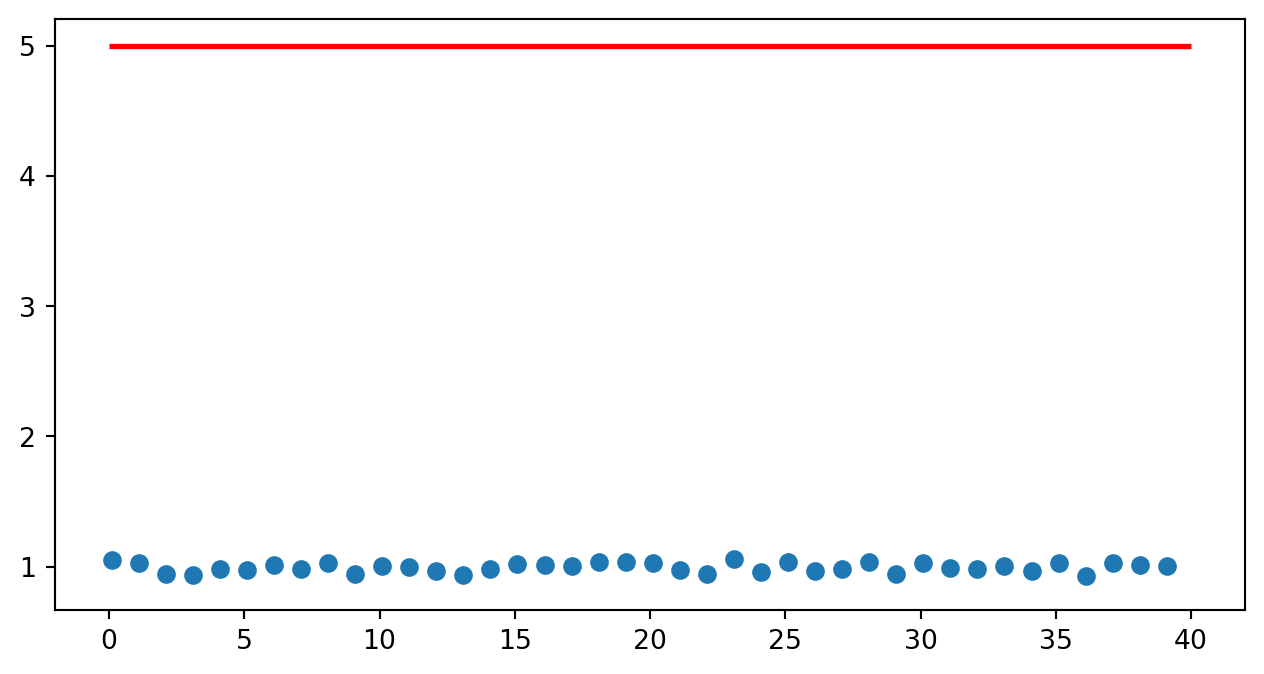
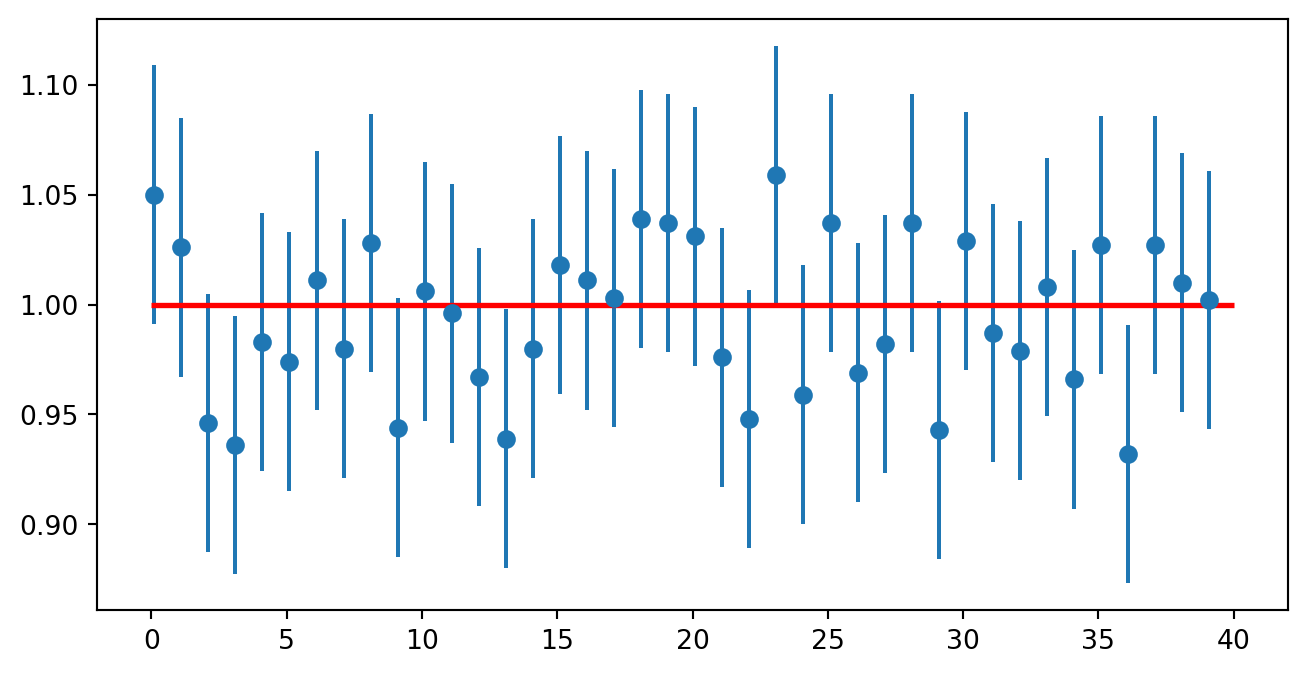
changes L2

diff --git a/lecture/l2/Lecture_2.html b/lecture/l2/Lecture_2.html
@@ -468,7 +468,7 @@
 <ul>
 <li><p><span class="math inline">\(f_X(x)\ge 0\ \forall x\)</span>,</p></li>
 <li><p><span class="math inline">\(\int\limits_\mathbb{R} f_X(x)dx=1\)</span>,</p></li>
-<li><p>For all <span class="math inline">\(a\le b\)</span>, it holds <span class="math display">\[P(a\le b)=\int\limits_{a}^b f_X(x)dx.\]</span></p></li>
+<li><p>For all <span class="math inline">\(a\le b\)</span>, it holds <span class="math display">\[P(a\le X \le b)=\int\limits_{a}^b f_X(x)dx.\]</span></p></li>
 </ul>
 <p>The function <span class="math inline">\(f_X\)</span> is called probability density function (pdf).</p>
 </section>
@@ -527,16 +527,16 @@ U\sim \mathcal{U}([0,1])\implies X:=F^{-1}(U)\sim F
 <span id="cb1-3"><a href="#cb1-3"></a>    X<span class="op">=</span>random.random()</span>
 <span id="cb1-4"><a href="#cb1-4"></a>    <span class="bu">print</span>(X)</span></code><button title="Copy to Clipboard" class="code-copy-button"><i class="bi"></i></button></pre></div>
 <div class="cell-output cell-output-stdout">
-<pre><code>0.8994960109708852
-0.9035462734850362
-0.9877420929341318
-0.5134246536937496
-0.4162733073592447
-0.8979716576181844
-0.0628017035556463
-0.7663710358514896
-0.2813777956759813
-0.6981711544492674</code></pre>
+<pre><code>0.9152949019822718
+0.08020395899785959
+0.6561996976012695
+0.7235724460815871
+0.06752088902122921
+0.491003309340016
+0.05857663489707554
+0.6492084549788051
+0.5484524803626224
+0.4961405538397724</code></pre>
 </div>
 </div>
 </div>
@@ -548,7 +548,7 @@ U\sim \mathcal{U}([0,1])\implies X:=F^{-1}(U)\sim F
 <div class="cell" data-slideshow="{&quot;slide_type&quot;:&quot;fragment&quot;}" data-execution_count="2">
 <div class="sourceCode cell-code" id="cb3"><pre class="sourceCode numberSource python number-lines code-with-copy"><code class="sourceCode python"><span id="cb3-1"><a href="#cb3-1"></a>random.randint(<span class="dv">1</span>,<span class="dv">100</span>)</span></code><button title="Copy to Clipboard" class="code-copy-button"><i class="bi"></i></button></pre></div>
 <div class="cell-output cell-output-display" data-execution_count="2">
-<pre><code>69</code></pre>
+<pre><code>68</code></pre>
 </div>
 </div>
 <p>To choose an element from a given set of values at random, you can use the function <code>choice</code></p>
@@ -558,7 +558,7 @@ U\sim \mathcal{U}([0,1])\implies X:=F^{-1}(U)\sim F
 <div class="sourceCode cell-code" id="cb5"><pre class="sourceCode numberSource python number-lines code-with-copy"><code class="sourceCode python"><span id="cb5-1"><a href="#cb5-1"></a>x<span class="op">=</span> [<span class="st">"a"</span>,<span class="st">"z"</span>,<span class="st">"e"</span>,<span class="st">"g"</span>]</span>
 <span id="cb5-2"><a href="#cb5-2"></a>random.choice(x)</span></code><button title="Copy to Clipboard" class="code-copy-button"><i class="bi"></i></button></pre></div>
 <div class="cell-output cell-output-display" data-execution_count="3">
-<pre><code>'a'</code></pre>
+<pre><code>'z'</code></pre>
 </div>
 </div>
 </div>
@@ -596,11 +596,11 @@ P(X=x)=\begin{cases}\frac{1}{2}\ \text{if}\ x=0\\
 <span id="cb7-8"><a href="#cb7-8"></a>randomnumber <span class="op">=</span> randint(<span class="dv">0</span>, <span class="dv">1</span>)</span>
 <span id="cb7-9"><a href="#cb7-9"></a></span>
 <span id="cb7-10"><a href="#cb7-10"></a><span class="cf">if</span> randomnumber <span class="op">==</span> <span class="dv">0</span>:</span>
-<span id="cb7-11"><a href="#cb7-11"></a>    <span class="bu">print</span>(<span class="st">'Kopf ist gefallen.'</span>)</span>
+<span id="cb7-11"><a href="#cb7-11"></a>    <span class="bu">print</span>(<span class="st">'Heads was flipped.'</span>)</span>
 <span id="cb7-12"><a href="#cb7-12"></a><span class="cf">else</span>:</span>
-<span id="cb7-13"><a href="#cb7-13"></a>    <span class="bu">print</span>(<span class="st">'Zahl ist gefallen.'</span>)</span></code><button title="Copy to Clipboard" class="code-copy-button"><i class="bi"></i></button></pre></div>
+<span id="cb7-13"><a href="#cb7-13"></a>    <span class="bu">print</span>(<span class="st">'Tails was flipped.'</span>)</span></code><button title="Copy to Clipboard" class="code-copy-button"><i class="bi"></i></button></pre></div>
 <div class="cell-output cell-output-stdout">
-<pre><code>Kopf ist gefallen.</code></pre>
+<pre><code>Tails was flipped.</code></pre>
 </div>
 </div>
 </section>
@@ -629,7 +629,7 @@ P(X=x)=\begin{cases}\frac{1}{2}\ \text{if}\ x=0\\
 <span id="cb9-14"><a href="#cb9-14"></a></span>
 <span id="cb9-15"><a href="#cb9-15"></a><span class="bu">print</span>(randomnumber)</span></code><button title="Copy to Clipboard" class="code-copy-button"><i class="bi"></i></button></pre></div>
 <div class="cell-output cell-output-stdout">
-<pre><code>6</code></pre>
+<pre><code>4</code></pre>
 </div>
 </div>
 </section>
@@ -644,13 +644,13 @@ P(X=x)=\begin{cases}\frac{1}{2}\ \text{if}\ x=0\\
 <span id="cb11-5"><a href="#cb11-5"></a>sample <span class="op">=</span> [random.choice(x) <span class="cf">for</span> _ <span class="kw">in</span> <span class="bu">range</span>(<span class="dv">10000</span>)]</span>
 <span id="cb11-6"><a href="#cb11-6"></a><span class="bu">print</span>(sample[<span class="dv">0</span>:<span class="dv">5</span>])</span></code><button title="Copy to Clipboard" class="code-copy-button"><i class="bi"></i></button></pre></div>
 <div class="cell-output cell-output-stdout">
-<pre><code>[5, 2, 1, 2, 5]</code></pre>
+<pre><code>[5, 4, 4, 1, 1]</code></pre>
 </div>
 </div>
 <div class="cell" data-execution_count="7">
 <div class="sourceCode cell-code" id="cb13"><pre class="sourceCode numberSource python number-lines code-with-copy"><code class="sourceCode python"><span id="cb13-1"><a href="#cb13-1"></a>np.mean(sample)</span></code><button title="Copy to Clipboard" class="code-copy-button"><i class="bi"></i></button></pre></div>
 <div class="cell-output cell-output-display" data-execution_count="7">
-<pre><code>3.4649</code></pre>
+<pre><code>3.4914</code></pre>
 </div>
 </div>
 <div class="cell" data-execution_count="8">
@@ -1036,6 +1036,10 @@ P(a &lt; \mu &lt; b)&amp;=P\Big(\bar{X}_n - \frac{\sigma}{\sqrt{n}}q_Z(0.975)&lt
 &amp;=P(q_Z(0.025)&lt;-Z&lt;q_Z(0.975))=0.95
 \end{align*}
 \]</span></p>
+</section>
+<section id="confidence-intervals-3" class="slide level2">
+<h2>Confidence Intervals</h2>
+<h4 id="example-exact-ci-2">Example: Exact CI</h4>
 <div class="cell" data-execution_count="17">
 <details>
 <summary>Code</summary>
@@ -1070,15 +1074,15 @@ Confidence interval: (4.892763789279348, 5.016722795740261)</code></pre>
 </div>
 </div>
 </section>
-<section id="confidence-intervals-3" class="slide level2">
+<section id="confidence-intervals-4" class="slide level2">
 <h2>Confidence Intervals</h2>
-<h4 id="example-exact-ci-2">Example: Exact CI</h4>
+<h4 id="example-exact-ci-3">Example: Exact CI</h4>
 <div class="cell" data-execution_count="18">
 <div class="sourceCode cell-code" id="cb30"><pre class="sourceCode numberSource python number-lines code-with-copy"><code class="sourceCode python"><span id="cb30-1"><a href="#cb30-1"></a>intervals <span class="op">=</span> []</span>
 <span id="cb30-2"><a href="#cb30-2"></a>sample_means <span class="op">=</span> []</span>
 <span id="cb30-3"><a href="#cb30-3"></a></span>
 <span id="cb30-4"><a href="#cb30-4"></a>k <span class="op">=</span> <span class="dv">40</span></span>
-<span id="cb30-5"><a href="#cb30-5"></a><span class="cf">for</span> sample <span class="kw">in</span> <span class="bu">range</span>(k):</span>
+<span id="cb30-5"><a href="#cb30-5"></a><span class="cf">for</span> i <span class="kw">in</span> <span class="bu">range</span>(k):</span>
 <span id="cb30-6"><a href="#cb30-6"></a>    sample <span class="op">=</span> np.random.normal(mu, sigma, sample_size)</span>
 <span id="cb30-7"><a href="#cb30-7"></a>    sample_mean <span class="op">=</span> sample.mean()</span>
 <span id="cb30-8"><a href="#cb30-8"></a>    sample_means.append(sample_mean)</span>
@@ -1089,9 +1093,9 @@ Confidence interval: (4.892763789279348, 5.016722795740261)</code></pre>
 <span id="cb30-13"><a href="#cb30-13"></a>    intervals.append(confidence_interval)</span></code><button title="Copy to Clipboard" class="code-copy-button"><i class="bi"></i></button></pre></div>
 </div>
 </section>
-<section id="confidence-intervals-4" class="slide level2">
+<section id="confidence-intervals-5" class="slide level2">
 <h2>Confidence Intervals</h2>
-<h4 id="example-exact-ci-3">Example: Exact CI</h4>
+<h4 id="example-exact-ci-4">Example: Exact CI</h4>
 <div class="cell" data-execution_count="19">
 <details>
 <summary>Code</summary>
@@ -1117,14 +1121,14 @@ Confidence interval: (4.892763789279348, 5.016722795740261)</code></pre>
 </div>
 </div>
 </section>
-<section id="confidence-intervals-5" class="slide level2">
+<section id="confidence-intervals-6" class="slide level2">
 <h2>Confidence Intervals</h2>
 <p>In most cases we do not have much information about the underlying distribution <span class="emoji" data-emoji="arrow_right">➡</span> It’s very difficult to derive exact confidence intervals.</p>
 <p>The idea is to use the <strong>central limit theorem</strong> and derive a confidence interval with the limit distribution.</p>
 <p>We say an estimator <span class="math inline">\(\hat{\theta}_n\)</span> for <span class="math inline">\(\theta\)</span> is <strong>asymptotically normal</strong> if</p>
 <p><span class="math display">\[\frac{\hat{\theta}_n-\theta}{\sqrt{Var(\hat{\theta}_n)}}\Dto Z\sim\mathcal{N}(0,1).\]</span></p>
 </section>
-<section id="confidence-intervals-6" class="slide level2">
+<section id="confidence-intervals-7" class="slide level2">
 <h2>Confidence Intervals</h2>
 <p>If <span class="math inline">\(\hat{\theta}_n\)</span> is asymptotically normal we can construct asymtotic confidence intervals by choosing</p>
 <p><span class="math display">\[a(X_1,\dots,X_n)=\hat{\theta}_n - \sqrt{Var(\hat{\theta}_n)}q_Z(0.975)\quad b(X_1,\dots,X_n)=\hat{\theta}_n + \sqrt{Var(\hat{\theta}_n)}q_Z(0.975).\]</span></p>
@@ -1135,7 +1139,7 @@ P(a &lt; \theta &lt; b)&amp;=P\Big(\hat{\theta}_n - \sqrt{Var(\hat{\theta}_n)}q_
 \end{align*}
 \]</span></p>
 </section>
-<section id="confidence-intervals-7" class="slide level2">
+<section id="confidence-intervals-8" class="slide level2">
 <h2>Confidence Intervals</h2>
 <h4 id="example-asymptotic-ci-1">Example: Asymptotic CI (1)</h4>
 <p>Let <span class="math inline">\(X_1,X_2,\dots\)</span> i.i.d. random variables, where the variance <span class="math inline">\(\sigma^2\)</span> is known, but the mean <span class="math inline">\(\mu\)</span> is not.</p>
@@ -1143,7 +1147,7 @@ P(a &lt; \theta &lt; b)&amp;=P\Big(\hat{\theta}_n - \sqrt{Var(\hat{\theta}_n)}q_
 <p>We can construct a symmetric asymptotic confidence interval for <span class="math inline">\(\mu\)</span> with confidence level <span class="math inline">\(1-\alpha=0.95\)</span> by choosing</p>
 <p><span class="math display">\[a(X_1,\dots,X_n)=\bar{X}_n - \frac{\sigma}{\sqrt{n}}q_Z(0.975)\quad b(X_1,\dots,X_n)=\bar{X}_n + \frac{\sigma}{\sqrt{n}}q_Z(0.975)\]</span></p>
 </section>
-<section id="confidence-intervals-8" class="slide level2">
+<section id="confidence-intervals-9" class="slide level2">
 <h2>Confidence Intervals</h2>
 <h4 id="example-asymptotic-ci-1-1">Example: Asymptotic CI (1)</h4>
 <div class="cell" data-execution_count="20">
@@ -1181,7 +1185,7 @@ Confidence interval: (0.9262010804637983, 1.0437989195362016)</code></pre>
 </div>
 </div>
 </section>
-<section id="confidence-intervals-9" class="slide level2">
+<section id="confidence-intervals-10" class="slide level2">
 <h2>Confidence Intervals</h2>
 <h4 id="example-asymptotic-ci-1-2">Example: Asymptotic CI (1)</h4>
 <div class="cell" data-execution_count="21">
@@ -1189,7 +1193,7 @@ Confidence interval: (0.9262010804637983, 1.0437989195362016)</code></pre>
 <span id="cb34-2"><a href="#cb34-2"></a>sample_means <span class="op">=</span> []</span>
 <span id="cb34-3"><a href="#cb34-3"></a></span>
 <span id="cb34-4"><a href="#cb34-4"></a>k <span class="op">=</span> <span class="dv">40</span></span>
-<span id="cb34-5"><a href="#cb34-5"></a><span class="cf">for</span> sample <span class="kw">in</span> <span class="bu">range</span>(k):</span>
+<span id="cb34-5"><a href="#cb34-5"></a><span class="cf">for</span> i <span class="kw">in</span> <span class="bu">range</span>(k):</span>
 <span id="cb34-6"><a href="#cb34-6"></a>    sample <span class="op">=</span>  np.random.binomial(n, p, sample_size)</span>
 <span id="cb34-7"><a href="#cb34-7"></a>    sample_mean <span class="op">=</span> sample.mean()</span>
 <span id="cb34-8"><a href="#cb34-8"></a>    sample_means.append(sample_mean)</span>
@@ -1200,7 +1204,7 @@ Confidence interval: (0.9262010804637983, 1.0437989195362016)</code></pre>
 <span id="cb34-13"><a href="#cb34-13"></a>    intervals.append(confidence_interval)</span></code><button title="Copy to Clipboard" class="code-copy-button"><i class="bi"></i></button></pre></div>
 </div>
 </section>
-<section id="confidence-intervals-10" class="slide level2">
+<section id="confidence-intervals-11" class="slide level2">
 <h2>Confidence Intervals</h2>
 <h4 id="example-asymptotic-ci-1-3">Example: Asymptotic CI (1)</h4>
 <div class="cell" data-execution_count="22">
@@ -1217,31 +1221,31 @@ Confidence interval: (0.9262010804637983, 1.0437989195362016)</code></pre>
 <span id="cb35-9"><a href="#cb35-9"></a>             fmt<span class="op">=</span><span class="st">'o'</span>)</span>
 <span id="cb35-10"><a href="#cb35-10"></a></span>
 <span id="cb35-11"><a href="#cb35-11"></a>plt.hlines(xmin<span class="op">=</span><span class="dv">0</span>, xmax<span class="op">=</span>k,</span>
-<span id="cb35-12"><a href="#cb35-12"></a>           y<span class="op">=</span>mu, </span>
+<span id="cb35-12"><a href="#cb35-12"></a>           y<span class="op">=</span>n<span class="op">*</span>p, </span>
 <span id="cb35-13"><a href="#cb35-13"></a>           linewidth<span class="op">=</span><span class="fl">2.0</span>,</span>
 <span id="cb35-14"><a href="#cb35-14"></a>           color<span class="op">=</span><span class="st">"red"</span>)</span>
 <span id="cb35-15"><a href="#cb35-15"></a></span>
 <span id="cb35-16"><a href="#cb35-16"></a>plt.show()</span></code><button title="Copy to Clipboard" class="code-copy-button"><i class="bi"></i></button></pre></div>
 </details>
 <div class="cell-output cell-output-display">
-<p><img data-src="Lecture_2_files/figure-revealjs/cell-23-output-1.png" width="632" height="337"></p>
+<p><img data-src="Lecture_2_files/figure-revealjs/cell-23-output-1.png" width="653" height="337"></p>
 </div>
 </div>
 </section>
-<section id="confidence-intervals-11" class="slide level2">
+<section id="confidence-intervals-12" class="slide level2">
 <h2>Confidence Intervals</h2>
 <h4 id="example-asymptotic-ci-2">Example: Asymptotic CI (2)</h4>
 <p>In the last example we did suppose that <span class="math inline">\(\sigma^2\)</span> was known. This assumption is often unrealistic.</p>
 <p>Let <span class="math inline">\(\hat{\theta}_n\)</span> be an asymptotically normal estimator for <span class="math inline">\(\theta\)</span>.</p>
 <p>If <span class="math inline">\(Var(\hat{\theta}_n):=\sigma^2_{\hat{\theta}_n}\)</span> is not known, we use an estimator <span class="math inline">\(\hat{\sigma}^2_{\hat{\theta}_n}\)</span> instead.</p>
 </section>
-<section id="confidence-intervals-12" class="slide level2">
+<section id="confidence-intervals-13" class="slide level2">
 <h2>Confidence Intervals</h2>
 <h4 id="example-asymptotic-ci-2-1">Example: Asymptotic CI (2)</h4>
 <p>Assumption: <span class="math inline">\(\hat{\sigma}^2_{\hat{\theta}_n}\)</span> is a consistent estimator for <span class="math inline">\(\sigma^2_{\hat{\theta}_n}\)</span> (Meaning <span class="math inline">\(\hat{\sigma}^2_{\hat{\theta}_n}\Pto \sigma^2_{\hat{\theta}_n}).\)</span></p>
 <p><span class="math display">\[\Rightarrow \frac{\hat{\theta}_n-\theta}{\hat{\sigma}_{\hat{\theta}_n}}=\underbrace{\frac{ \sigma_{\hat{\theta}_n}}{\hat{\sigma}_{\hat{\theta}_n}}}_{\Pto 1}\underbrace{\frac{\hat{\theta}_n-\theta}{ \sigma_{\hat{\theta}_n}}}_{\Dto Z\sim\mathcal{N}(0,1)}\Dto Z\sim\mathcal{N}(0,1).\]</span></p>
 </section>
-<section id="confidence-intervals-13" class="slide level2">
+<section id="confidence-intervals-14" class="slide level2">
 <h2>Confidence Intervals</h2>
 <h4 id="example-asymptotic-ci-2-2">Example: Asymptotic CI (2)</h4>
 <div class="cell" data-execution_count="23">
@@ -1270,7 +1274,7 @@ Sample variance: 0.9227750000000001</code></pre>
 </div>
 </div>
 </section>
-<section id="confidence-intervals-14" class="slide level2">
+<section id="confidence-intervals-15" class="slide level2">
 <h2>Confidence Intervals</h2>
 <h4 id="example-asymptotic-ci-2-3">Example: Asymptotic CI (2)</h4>
 <div class="cell" data-execution_count="24">
@@ -1282,7 +1286,7 @@ Sample variance: 0.9227750000000001</code></pre>
 <span id="cb38-4"><a href="#cb38-4"></a></span>
 <span id="cb38-5"><a href="#cb38-5"></a>k <span class="op">=</span> <span class="dv">40</span></span>
 <span id="cb38-6"><a href="#cb38-6"></a></span>
-<span id="cb38-7"><a href="#cb38-7"></a><span class="cf">for</span> sample <span class="kw">in</span> <span class="bu">range</span>(k):</span>
+<span id="cb38-7"><a href="#cb38-7"></a><span class="cf">for</span> i <span class="kw">in</span> <span class="bu">range</span>(k):</span>
 <span id="cb38-8"><a href="#cb38-8"></a>    sample <span class="op">=</span>  np.random.binomial(n, p, sample_size)</span>
 <span id="cb38-9"><a href="#cb38-9"></a>    sample_mean <span class="op">=</span> sample.mean()</span>
 <span id="cb38-10"><a href="#cb38-10"></a>    sample_means.append(sample_mean)</span>
